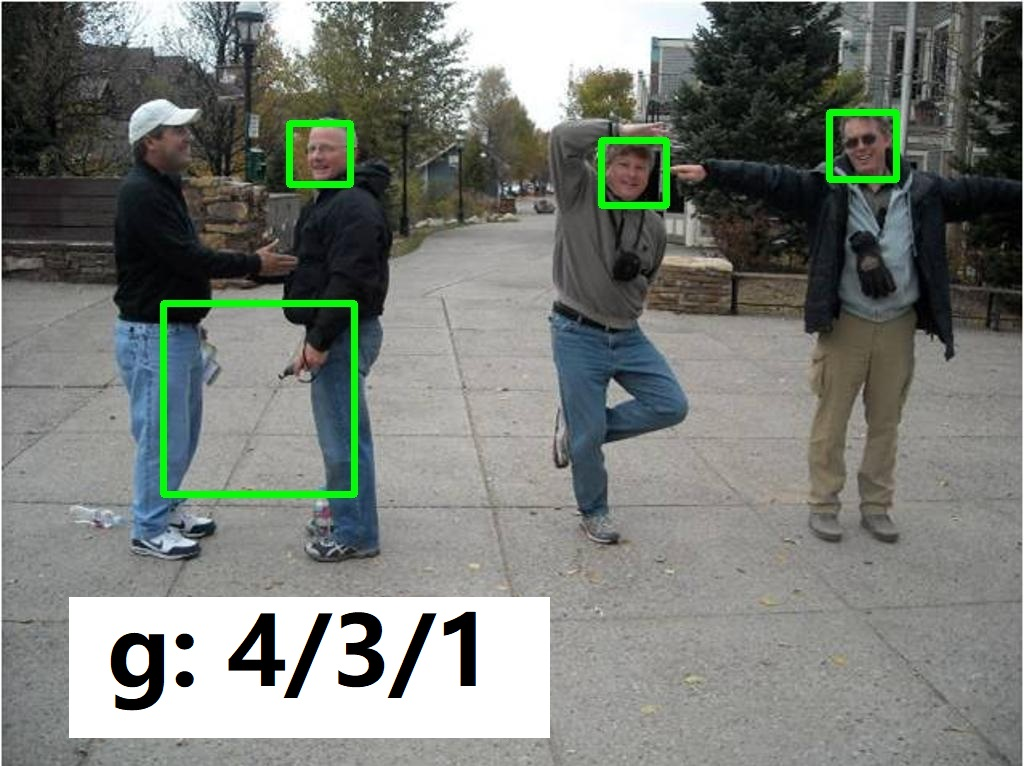
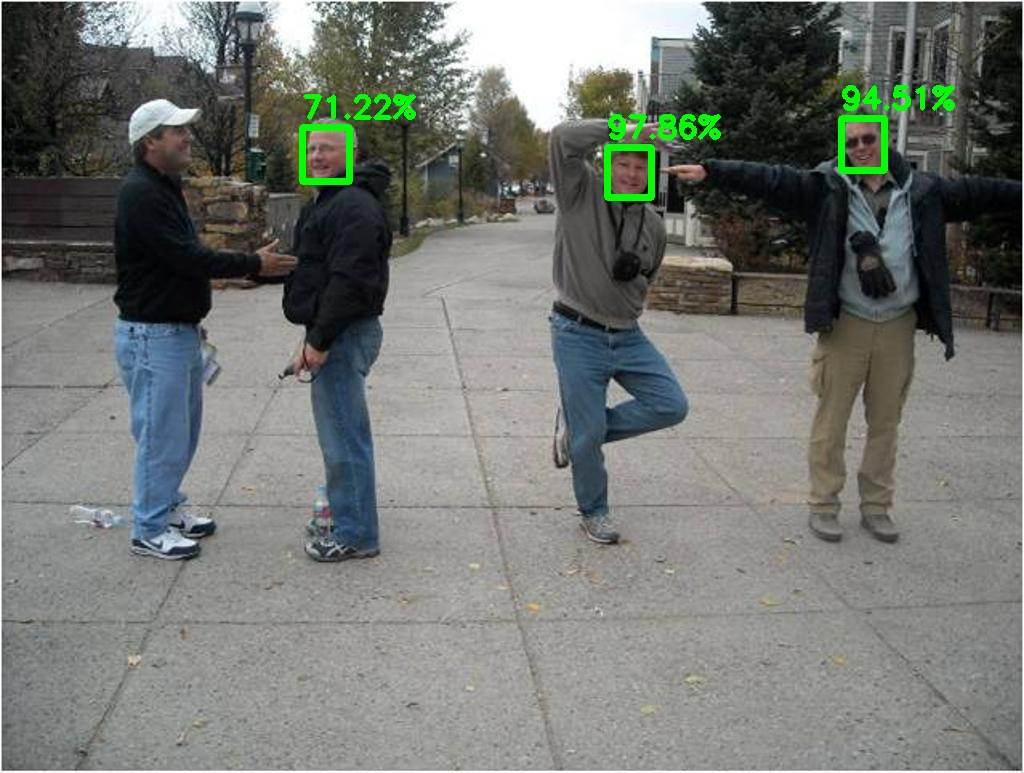
Added Files for combining our parts.

diff --git a/Upload_Face.py b/Upload_Face.py
@@ -1,0 +1,6 @@
+import DBHelper
+import Facial_Recognition_Software
+import midterm_demo_HARDWARE
+
+
+def upload_your_face(ID, firstname, lastname, email, phone, address):

diff --git a/start_engine.py b/start_engine.py
@@ -1,0 +1,2 @@
+
+def start():
